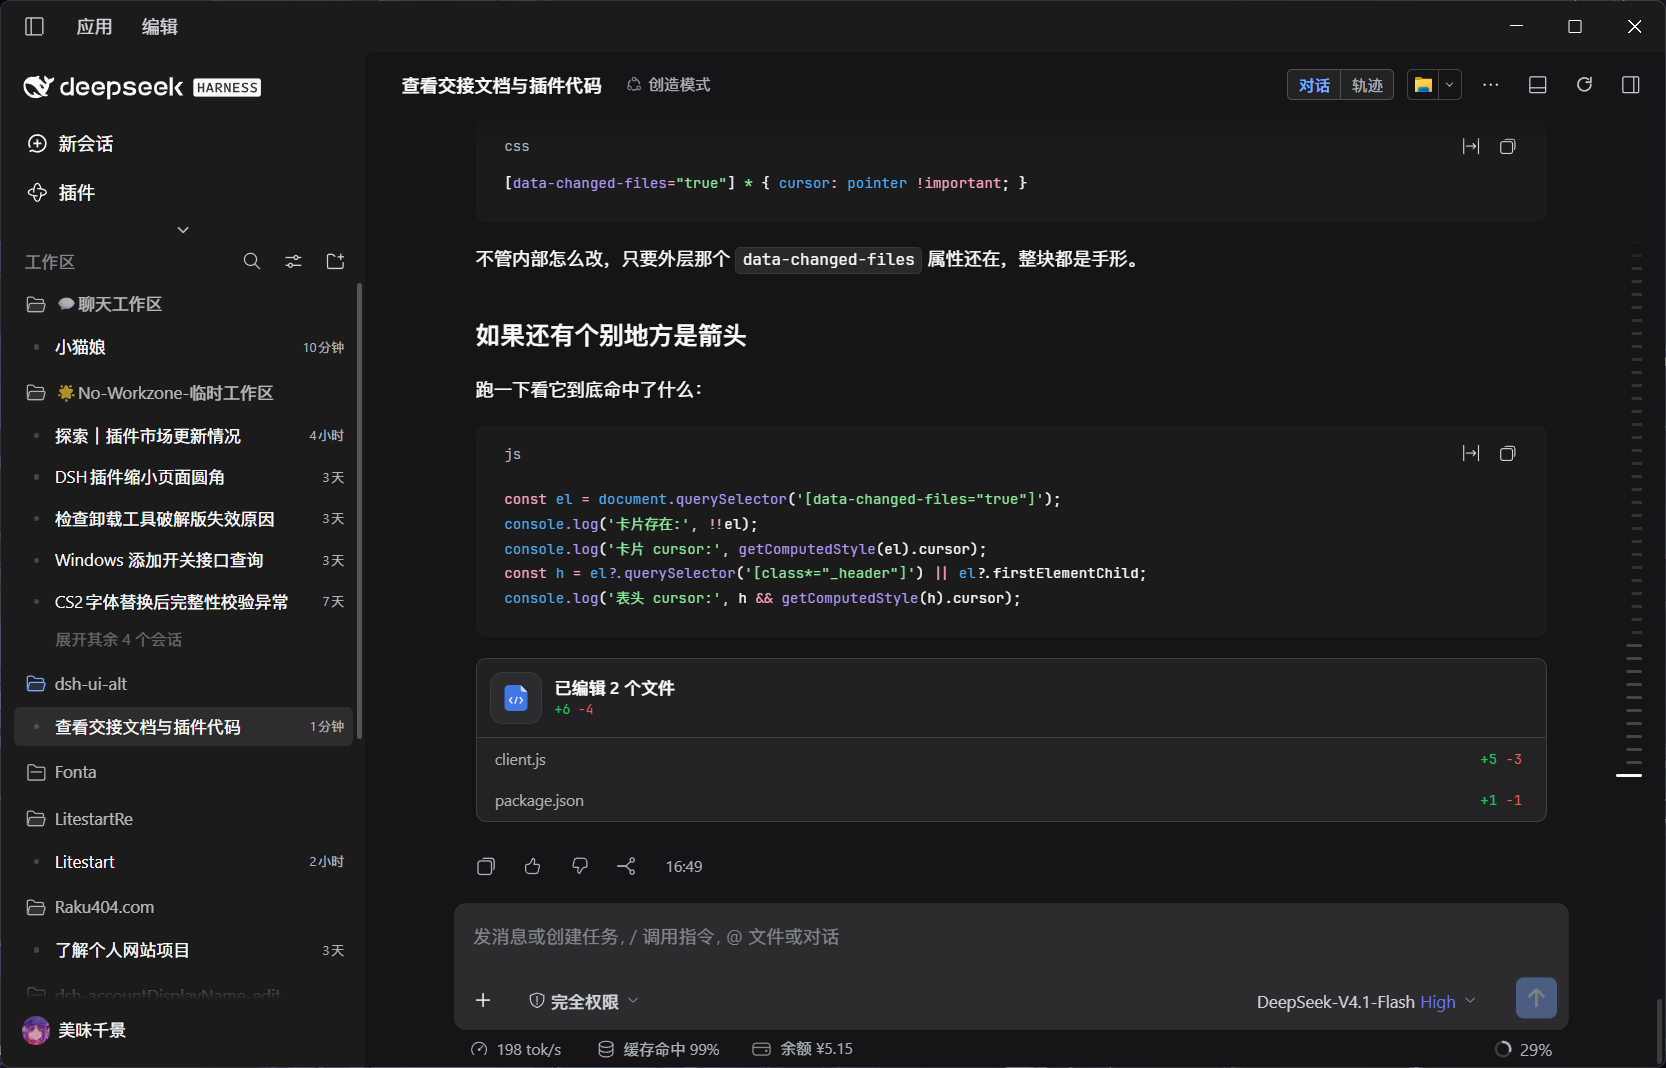
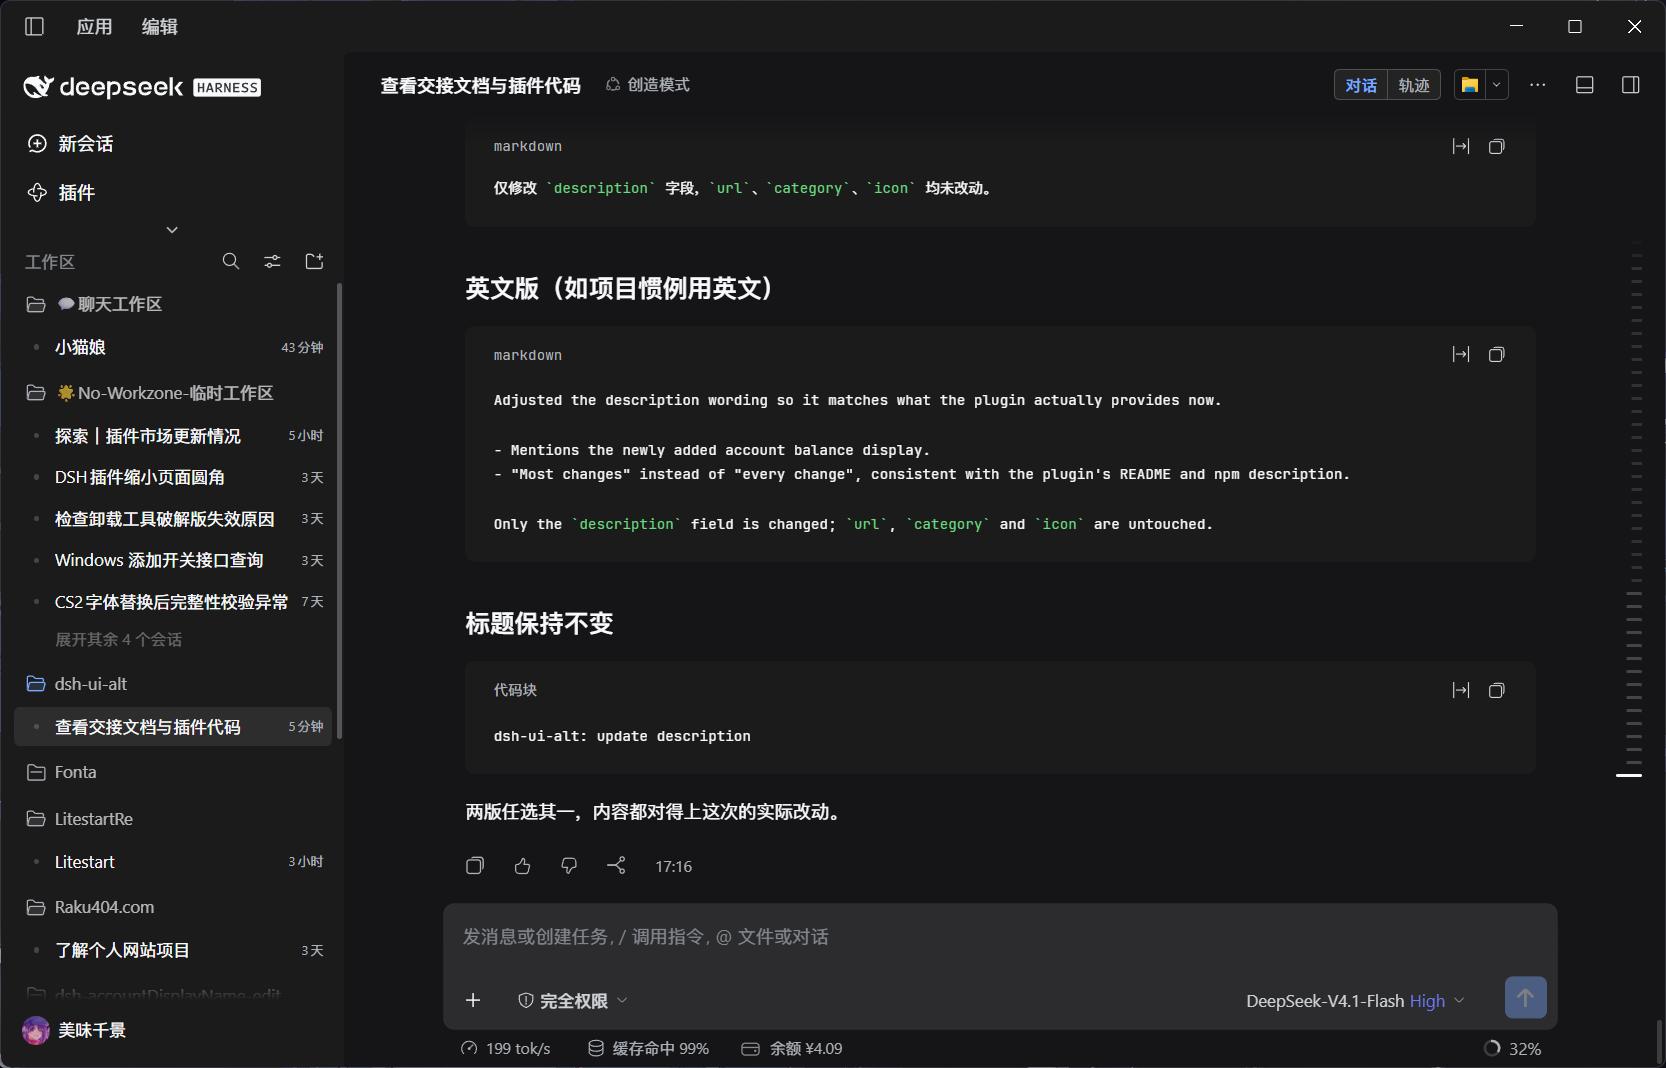
更新前两张截图（0.2.90）

diff --git a/client.js b/client.js
@@ -6,7 +6,7 @@ window.__ModuleLoader__.load({
 
     const STORAGE_KEY = 'dsh-ui-alt:prefs:v1';
     /* 发版时与 package.json 的 version 一起改：设置页底部会显示这两个值 */
-    const VERSION = '0.2.89';
+    const VERSION = '0.2.90';
     const UPDATED = '2026-11-11';
     const DEFAULTS = {
       radiusDensity: true,
